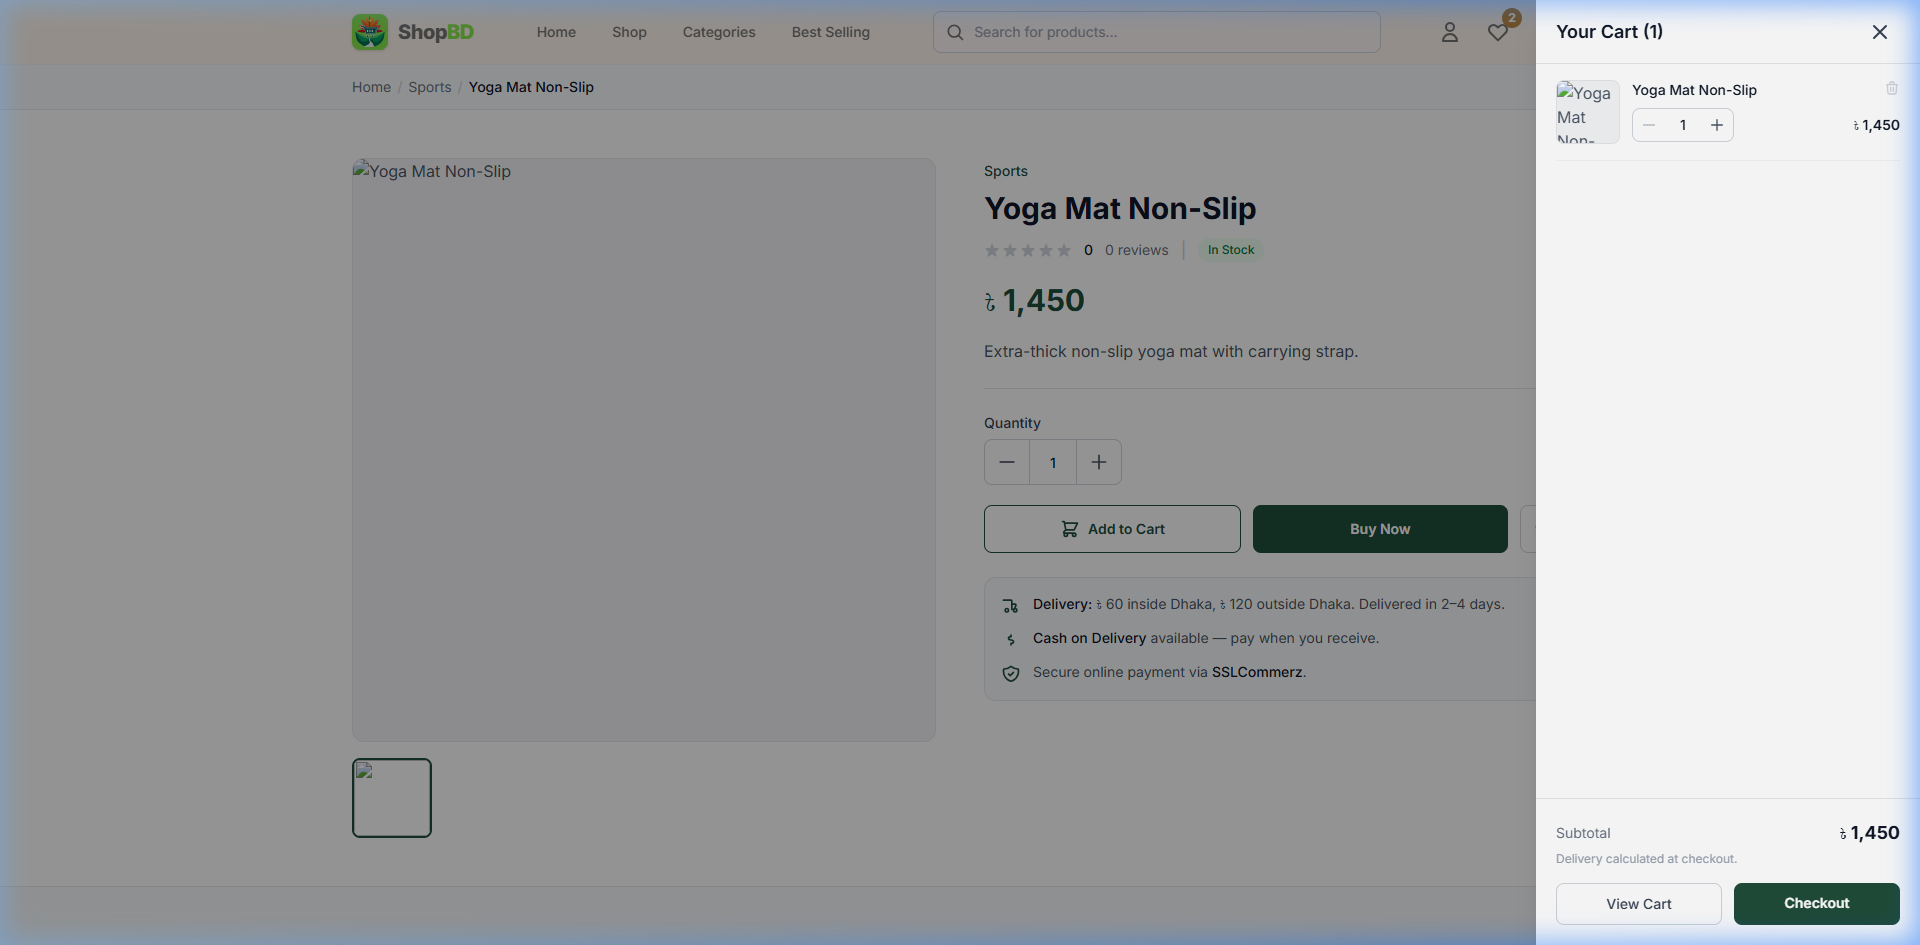
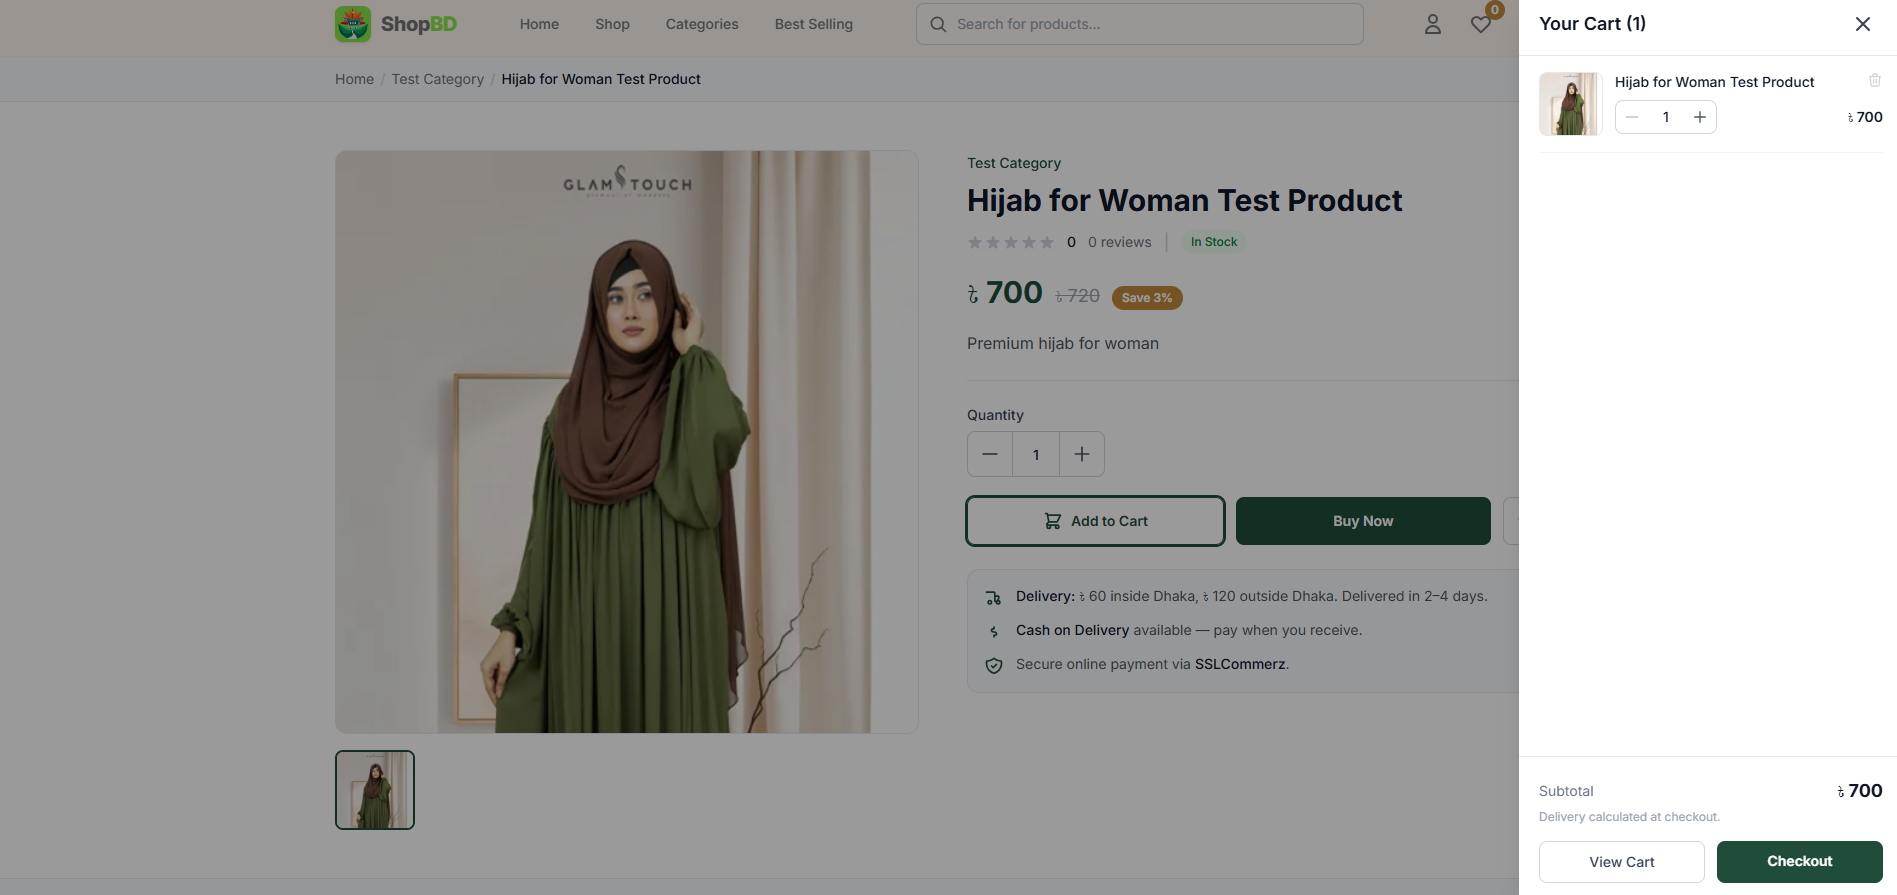
Readme

diff --git a/database/seeders/ProductSeeder.php b/database/seeders/ProductSeeder.php
@@ -30,9 +30,9 @@ class ProductSeeder extends Seeder
      */
     private const PRODUCTS = [
         [
-            'slug' => 'wireless-noise-cancelling-headphones',
-            'name' => 'Wireless Noise-Cancelling Headphones',
-            'category_slug' => 'electronics',
+            'slug' => 'manha-abaya-gown-gt1332',
+            'name' => 'MANHA ABAYA GOWN | GT-1332',
+            'category_slug' => 'dress',
             'price' => 6499.00,
             'compare_at_price' => 8999.00,
             'stock_status' => 'in_stock',
@@ -41,7 +41,7 @@ class ProductSeeder extends Seeder
             'sold_count' => 980,
             'short_description' => 'Premium wireless noise-cancelling headphones with up to 40 hours of battery life and all-day comfort.',
             'description' => "The ShopEase Wireless Noise-Cancelling Headphones are engineered for listeners who refuse to compromise. Advanced hybrid active noise cancellation silences the world around you, while custom 40mm drivers deliver deep, balanced sound across every genre.\n\nDesigned for all-day comfort, the breathable memory-foam ear cushions and lightweight headband let you wear them from your morning commute to late-night sessions. With up to 40 hours of playback and fast charging — 10 minutes gives you 5 hours — you'll rarely reach for the cable.",
-            'image' => 'photo-1505740420928-5e560c06d30e',
+            'image' => 'https://cdn.manfarebd.com/glamtouch/media/lg/177168484367419356097_gt_1332_1.webp',
             'alt_text' => 'Wireless Noise-Cancelling Headphones',
         ],
         [
@@ -56,7 +56,7 @@ class ProductSeeder extends Seeder
             'sold_count' => 870,
             'short_description' => 'Track workouts, heart rate, and sleep with a bright always-on display.',
             'description' => 'Stay on top of your health goals with the Smart Fitness Watch Series 6. Built-in GPS, heart-rate monitoring, and sleep tracking help you understand your body. Water-resistant design and a week-long battery make it perfect for everyday wear.',
-            'image' => 'photo-1523275335684-37898b6baf30',
+            'image' => 'https://images.unsplash.com/photo-1523275335684-37898b6baf30?w=800&q=80',
             'alt_text' => 'Smart Fitness Watch Series 6',
         ],
         [
@@ -71,7 +71,7 @@ class ProductSeeder extends Seeder
             'sold_count' => 760,
             'short_description' => 'Timeless leather sneakers with cushioned insoles for all-day comfort.',
             'description' => 'These Classic Leather Sneakers combine clean lines with premium materials. A cushioned footbed and durable rubber outsole keep you comfortable from city streets to weekend outings.',
-            'image' => 'photo-1542291026-7eec264c27ff',
+            'image' => 'https://images.unsplash.com/photo-1542291026-7eec264c27ff?w=800&q=80',
             'alt_text' => 'Classic Leather Sneakers',
         ],
         [
@@ -86,7 +86,7 @@ class ProductSeeder extends Seeder
             'sold_count' => 540,
             'short_description' => 'Polarized lenses with full UV400 protection in a lightweight frame.',
             'description' => 'Shield your eyes in style with Premium Sunglasses UV400. Polarized lenses cut glare while the lightweight acetate frame sits comfortably all day.',
-            'image' => 'photo-1572635196237-14b3f281503f',
+            'image' => 'https://images.unsplash.com/photo-1572635196237-14b3f281503f?w=800&q=80',
             'alt_text' => 'Premium Sunglasses UV400',
         ],
         [
@@ -101,7 +101,7 @@ class ProductSeeder extends Seeder
             'sold_count' => 320,
             'short_description' => 'Slim 20L backpack with padded laptop sleeve and water-resistant fabric.',
             'description' => 'The Minimalist Backpack 20L is built for commuters and students. A padded laptop compartment, organizer pockets, and water-resistant exterior keep your essentials safe and dry.',
-            'image' => 'photo-1553062407-98eeb64c6a62',
+            'image' => 'https://images.unsplash.com/photo-1553062407-98eeb64c6a62?w=800&q=80',
             'alt_text' => 'Minimalist Backpack 20L',
         ],
         [
@@ -116,7 +116,7 @@ class ProductSeeder extends Seeder
             'sold_count' => 210,
             'short_description' => 'Handcrafted ceramic dripper and carafe for barista-quality pour-over at home.',
             'description' => 'Brew café-quality coffee at home with this Ceramic Pour-Over Coffee Set. The dripper and carafe are designed for even extraction and easy cleanup.',
-            'image' => 'photo-1495774856032-8b90bbb32b32',
+            'image' => 'https://images.unsplash.com/photo-1495774856032-8b90bbb32b32?w=800&q=80',
             'alt_text' => 'Ceramic Pour-Over Coffee Set',
         ],
         [
@@ -131,7 +131,7 @@ class ProductSeeder extends Seeder
             'sold_count' => 430,
             'short_description' => 'Hot-swappable mechanical keyboard with per-key RGB lighting.',
             'description' => 'Type with precision on the Mechanical Keyboard RGB. Hot-swappable switches, durable PBT keycaps, and customizable per-key lighting make it a favorite for work and play.',
-            'image' => 'photo-1587829741301-dc798b83add3',
+            'image' => 'https://images.unsplash.com/photo-1587829741301-dc798b83add3?w=800&q=80',
             'alt_text' => 'Mechanical Keyboard RGB',
         ],
         [
@@ -146,7 +146,7 @@ class ProductSeeder extends Seeder
             'sold_count' => 150,
             'short_description' => 'Soft 100% cotton tee with a relaxed oversized fit.',
             'description' => 'A wardrobe staple in premium combed cotton. The relaxed oversized cut pairs easily with jeans, joggers, or layered under a jacket.',
-            'image' => 'photo-1521572163474-6864f9cf17ab',
+            'image' => 'https://images.unsplash.com/photo-1521572163474-6864f9cf17ab?w=800&q=80',
             'alt_text' => 'Cotton Oversized T-Shirt',
         ],
         [
@@ -161,7 +161,7 @@ class ProductSeeder extends Seeder
             'sold_count' => 620,
             'short_description' => 'Compact waterproof speaker with 12-hour battery and deep bass.',
             'description' => 'Take your music anywhere with the Portable Bluetooth Speaker. IPX7 waterproofing, 12-hour playtime, and punchy bass make it ideal for outdoor adventures.',
-            'image' => 'photo-1608043152269-423dbba4e7e1',
+            'image' => 'https://images.unsplash.com/photo-1608043152269-423dbba4e7e1?w=800&q=80',
             'alt_text' => 'Portable Bluetooth Speaker',
         ],
         [
@@ -176,7 +176,7 @@ class ProductSeeder extends Seeder
             'sold_count' => 810,
             'short_description' => 'True wireless earbuds with active noise cancellation and wireless charging case.',
             'description' => 'Wireless Earbuds Pro deliver immersive sound in a pocket-sized package. Active noise cancellation, transparency mode, and a wireless charging case keep you connected on the go.',
-            'image' => 'photo-1590658268037-6bf12165a8df',
+            'image' => 'https://images.unsplash.com/photo-1590658268037-6bf12165a8df?w=800&q=80',
             'alt_text' => 'Wireless Earbuds Pro',
         ],
         [
@@ -191,7 +191,7 @@ class ProductSeeder extends Seeder
             'sold_count' => 280,
             'short_description' => 'Set of three hand-poured soy candles in calming scents.',
             'description' => 'Create a cozy atmosphere with this Scented Soy Candle Set. Natural soy wax burns cleanly while lavender, vanilla, and sandalwood notes fill your space.',
-            'image' => 'photo-1602874801007-bd458bb1b8b6',
+            'image' => 'https://images.unsplash.com/photo-1602874801007-bd458bb1b8b6?w=800&q=80',
             'alt_text' => 'Scented Soy Candle Set',
         ],
         [
@@ -206,7 +206,7 @@ class ProductSeeder extends Seeder
             'sold_count' => 360,
             'short_description' => 'Long-wear matte lipsticks in six flattering everyday shades.',
             'description' => 'The Matte Lipstick Collection offers rich pigment and a comfortable matte finish. Six versatile shades from nude to berry suit every skin tone.',
-            'image' => 'photo-1586495777744-4413f21062fa',
+            'image' => 'https://images.unsplash.com/photo-1586495777744-4413f21062fa?w=800&q=80',
             'alt_text' => 'Matte Lipstick Collection',
         ],
         [
@@ -221,7 +221,7 @@ class ProductSeeder extends Seeder
             'sold_count' => 290,
             'short_description' => 'Extra-thick non-slip yoga mat with carrying strap.',
             'description' => 'Practice with confidence on the Yoga Mat Non-Slip. A textured surface prevents slipping while extra cushioning protects your joints during floor work.',
-            'image' => 'photo-1601925260368-ae2f83cf8b7f',
+            'image' => 'https://images.unsplash.com/photo-1601925260368-ae2f83cf8b7f?w=800&q=80',
             'alt_text' => 'Yoga Mat Non-Slip',
         ],
         [
@@ -236,7 +236,7 @@ class ProductSeeder extends Seeder
             'sold_count' => 470,
             'short_description' => 'Insulated stainless steel bottle keeps drinks cold for 24 hours.',
             'description' => 'Stay hydrated with the Stainless Steel Water Bottle. Double-wall insulation keeps beverages cold for 24 hours or hot for 12, with a leak-proof lid for travel.',
-            'image' => 'photo-1602143407151-7111542de6e8',
+            'image' => 'https://images.unsplash.com/photo-1602143407151-7111542de6e8?w=800&q=80',
             'alt_text' => 'Stainless Steel Water Bottle',
         ],
     ];

diff --git a/app/Services/OrderService.php b/app/Services/OrderService.php
@@ -121,7 +121,7 @@ class OrderService
         );
 
         $deliveryCharge = $this->deliveryChargeForDistrict($shipping['district']);
-        $total = $subtotal + $deliveryCharge;
+        $total = max($subtotal + $deliveryCharge - ($shipping['discount_amount'] ?? 0), 0);
 
         return DB::transaction(function () use ($shipping, $items, $subtotal, $deliveryCharge, $total, $paymentMethod, $statusNote): Order {
             $order = Order::create([

diff --git a/database/seeders/UserSeeder.php b/database/seeders/UserSeeder.php
@@ -13,10 +13,10 @@ class UserSeeder extends Seeder
      */
     private const USERS = [
         [
-            'name' => 'ShopEase Admin',
-            'email' => 'admin@shopease.test',
+            'name' => 'ShopBD Admin',
+            'email' => 'hassan0cse@gmail.com',
             'role' => 'admin',
-            'phone' => '01700000001',
+            'phone' => '01770910017',
         ],
         [
             'name' => 'Test User',
